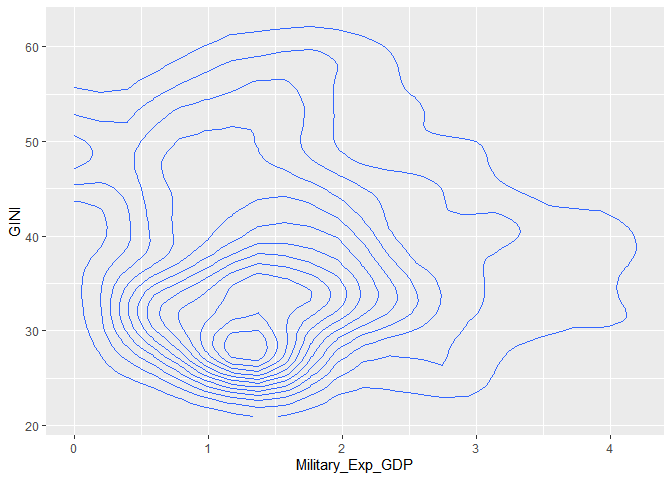
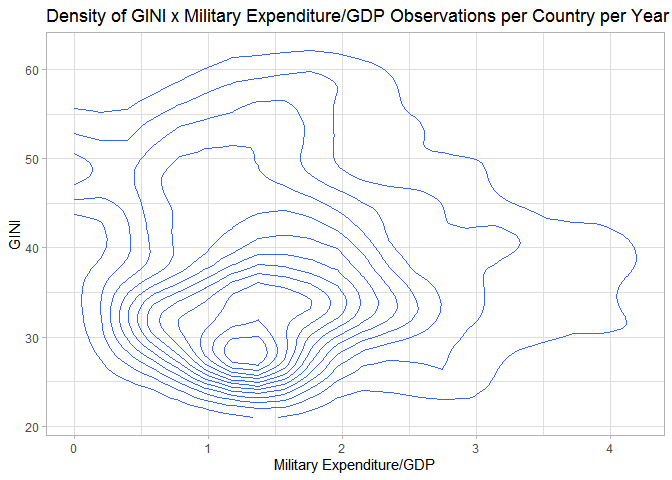
Finished exploratory analysis and visualization. Need to comment and write up.

diff --git a/world_bank.md b/world_bank.md
@@ -19,6 +19,10 @@ library(tidyverse)
     ## x dplyr::filter() masks stats::filter()
     ## x dplyr::lag()    masks stats::lag()
 
+``` r
+theme_set(theme_light())
+```
+
 ## Write a function to import the data files
 
 ``` r
@@ -2869,47 +2873,72 @@ wb_gini_military <- map_df(full_countries, import_data) #Iterate importing funct
 ## Explore the data
 
 ``` r
-#overall mean of each variable through years in two line charts
-#scatterplot of all observations (if doesn't look ugly, if it does then just country averages). First option definitely looks ugly though
+median_year <- group_by(wb_gini_military, Year) %>%
+  summarize(Median_GINI_year = median(GINI),
+            Median_Exp_year = median(Military_Exp_GDP))
+```
 
+    ## `summarise()` ungrouping output (override with `.groups` argument)
 
-Inequality_Tiers = c("1" = 1:35, "2" = 35:50, "3" = 50:100)
-data_decade <- mutate(wb_gini_military, Decade = ((Year - 1900) %/% 10) * 10) %>%
-  #mutate(Inequality_Tier = fct_collapse(GINI,
-                             #  "Low_Ineq" = (GINI < 35),
-                            #  "High_Ineq" = (GINI > 50),
-                            #  "Med_Ineq" = (GINI > 34 & GINI < 51)))
-  group_by(Decade) %>%
-  mutate(Median_GINI = median(GINI)) %>%
-  mutate(Median_Exp = median(Military_Exp_GDP))
+``` r
+gini_military_tier <- wb_gini_military %>%
+  mutate(GINI_tiers = ifelse(GINI < 35, "Low Inequality", NA),
+         GINI_tiers = ifelse(GINI >= 35 & GINI < 50, "Medium Inequality", GINI_tiers),
+         GINI_tiers = ifelse(GINI >= 50, "High Inequality", GINI_tiers)) %>%
+  group_by(Year, GINI_tiers) %>%
+  summarize(Median_GINI_year = median(GINI),
+            Median_Exp_year = median(Military_Exp_GDP))
+```
 
-ggplot(data_decade, aes(y = GINI, x = Military_Exp_GDP)) +
-  geom_density_2d()
+    ## `summarise()` regrouping output by 'Year' (override with `.groups` argument)
+
+``` r
+ggplot(wb_gini_military, aes(y = GINI, x = Military_Exp_GDP)) +
+  geom_density_2d() +
+  labs(y = "GINI", x = "Military Expenditure/GDP", title = "Density of GINI x Military Expenditure/GDP Observations per Country per Year")
 ```
 
 ![](world_bank_files/figure-gfm/unnamed-chunk-4-1.png)<!-- -->
 
-``` r
-  #Decent. Three perceptible clusters: very low military expenditure and high
-#Gini closer to the left axis; dense area around 1.5% expenditure and 30 Gini; no apparent
-#causality, but outliers are perpendicular not diagonal.
-  
-ggplot(data_decade, aes(x = Decade, y = Median_GINI)) +
-  geom_line()
-```
+\#ggplot(median\_country, aes(y = Median\_GINI\_country, x =
+Median\_Exp\_country)) + \# geom\_density\_2d() + \#labs(y = “GINI”, x =
+“Military Expenditure/GDP”, title = “Density of GINI x Military
+Expenditure/GDP Observations per Country Median per Year”)
 
-![](world_bank_files/figure-gfm/unnamed-chunk-4-2.png)<!-- -->
-
-``` r
-ggplot(data_decade, aes(x = Year, y = Median_Exp)) +
-  geom_line()
-```
-
-![](world_bank_files/figure-gfm/unnamed-chunk-4-3.png)<!-- -->
+\#Decent. Three perceptible clusters: very low military expenditure and
+high \#Gini closer to the left axis; dense area around 1.5% expenditure
+and 30 Gini; no apparent \#causality, but outliers are perpendicular not
+diagonal.
 
 ``` r
-  #theme(legend.position = "none")
+ggplot(median_year, aes(x = Year, y = Median_GINI_year)) +
+  geom_line() +
+  geom_smooth() +
+  labs(y = "Median of GINI", x = "Years", title = "Worldwide Median of GINI per Year")
 ```
+
+    ## `geom_smooth()` using method = 'loess' and formula 'y ~ x'
+
+![](world_bank_files/figure-gfm/unnamed-chunk-5-1.png)<!-- -->
+
+``` r
+ggplot(median_year, aes(x = Year, y = Median_Exp_year)) +
+  geom_line() +
+  geom_smooth() +
+  labs(y = "Median of Military Expenditure/GDP", x = "Years", title = "Worldwide Median of Military Expenditure/GDP per Year")
+```
+
+    ## `geom_smooth()` using method = 'loess' and formula 'y ~ x'
+
+![](world_bank_files/figure-gfm/unnamed-chunk-6-1.png)<!-- -->
+
+``` r
+ggplot(gini_military_tier, aes(x = Year, y = Median_Exp_year, color = GINI_tiers)) +
+  geom_line() +
+  labs(y = "Median of Military Expenditure/GDP", x = "Years", title = "Worldwide Median of Military Expenditure/GDP per Year", color = "Inequality Tiers")
+```
+
+![](world_bank_files/figure-gfm/unnamed-chunk-7-1.png)<!-- -->
 
 ## Session info
 
@@ -2964,13 +2993,17 @@ devtools::session_info()
     ##  jsonlite      1.7.1    2020-09-07 [1] CRAN (R 4.0.2)
     ##  knitr         1.30     2020-09-22 [1] CRAN (R 4.0.2)
     ##  labeling      0.3      2014-08-23 [1] CRAN (R 4.0.0)
+    ##  lattice       0.20-41  2020-04-02 [2] CRAN (R 4.0.2)
     ##  lifecycle     0.2.0    2020-03-06 [1] CRAN (R 4.0.2)
     ##  lubridate     1.7.9    2020-06-08 [1] CRAN (R 4.0.2)
     ##  magrittr      1.5      2014-11-22 [1] CRAN (R 4.0.2)
     ##  MASS          7.3-51.6 2020-04-26 [2] CRAN (R 4.0.2)
+    ##  Matrix        1.2-18   2019-11-27 [2] CRAN (R 4.0.2)
     ##  memoise       1.1.0    2017-04-21 [1] CRAN (R 4.0.2)
+    ##  mgcv          1.8-31   2019-11-09 [2] CRAN (R 4.0.2)
     ##  modelr        0.1.8    2020-05-19 [1] CRAN (R 4.0.2)
     ##  munsell       0.5.0    2018-06-12 [1] CRAN (R 4.0.2)
+    ##  nlme          3.1-148  2020-05-24 [2] CRAN (R 4.0.2)
     ##  pillar        1.4.6    2020-07-10 [1] CRAN (R 4.0.2)
     ##  pkgbuild      1.1.0    2020-07-13 [1] CRAN (R 4.0.2)
     ##  pkgconfig     2.0.3    2019-09-22 [1] CRAN (R 4.0.2)
